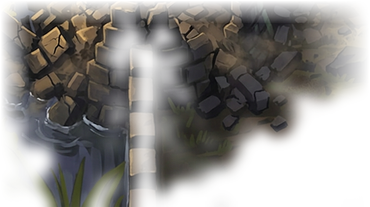
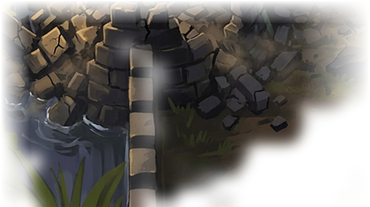
Siege shots with breaches, reach outline, level Town Hall captions: judge shots of a siege some turns in (--broken) and of a manual siege turn; moat hexes under the painted towers give no footing; no ghost roof over a fallen tower; the reach area lighter with a firm gold edge; Town Hall caption bars

diff --git a/tools/art/siege_wall_paint.py b/tools/art/siege_wall_paint.py
@@ -234,7 +234,9 @@ def ingest():
                 src.paste(Image.open(bp).convert("RGB").resize((bb[2] - bb[0], bb[3] - bb[1]), Image.LANCZOS), bb[:2])
             # alpha: where the ruined picture differs from the intact one, feathered, and faded at the band ends
             a = np.abs(np.asarray(src.crop(box), np.int16) - np.asarray(wall.crop(box), np.int16)).sum(2)
-            m = Image.fromarray(np.clip((a - 18) * 6, 0, 255).astype(np.uint8)).filter(ImageFilter.MaxFilter(9))
+            # (a fallen tower or roof needs the wider margin: the soft edge must cover the old outline in the sky)
+            grow = 25 if i in (0, 4, 6) else 9
+            m = Image.fromarray(np.clip((a - 18) * 6, 0, 255).astype(np.uint8)).filter(ImageFilter.MaxFilter(grow))
             m = m.filter(ImageFilter.GaussianBlur(6))
             ma = np.asarray(m, np.float32)
             h = ma.shape[0]
